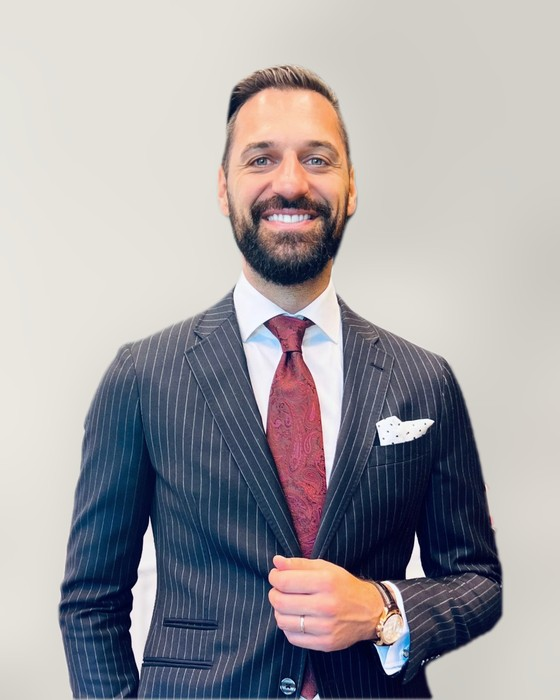
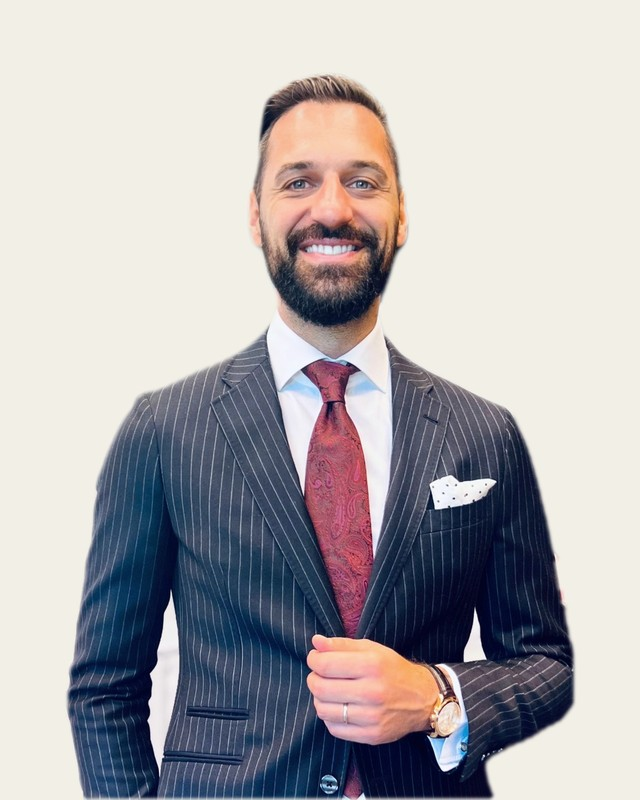
Porträt ohne Rahmen, sanfter Übergang, Stirnglanz reduziert (Vorschau)
Claude-Session: https://claude.ai/code/session_01GcJkPiUgTpiDvB5AkukY9n

diff --git a/public/styles/global.css b/public/styles/global.css
@@ -239,3 +239,8 @@
   .path-row.r3 .path-cell.stage::before{color:var(--brass);}
 }
   :focus-visible{outline:2px solid var(--brass-deep);outline-offset:2px;}
+
+.portrait{position:relative;max-width:340px;margin:-24px 0 -70px auto;z-index:0;pointer-events:none;}
+.portrait img{width:100%;height:auto;display:block;-webkit-mask-image:linear-gradient(to bottom,#000 55%,transparent 100%);mask-image:linear-gradient(to bottom,#000 55%,transparent 100%);}
+.about-grid .stat-card{position:relative;z-index:1;}
+@media (max-width:900px){ .portrait{max-width:260px;margin:0 auto -50px 0;} }
